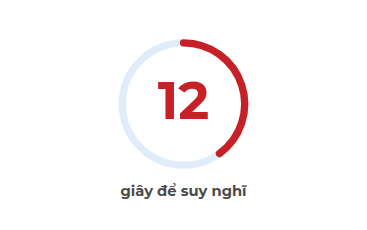
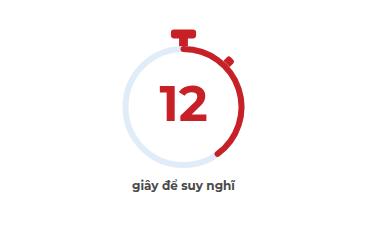
feat(ds): Countdown mang dáng đồng hồ bấm giờ
Vành đếm ngược có núm và nút bấm (`clock`, mặc định bật) để người xem nhận ra ngay là đồng hồ;
`clock={false}` giữ vòng tròn trơn. Cập nhật ảnh preview và đưa Countdown vào design-sync.

Claude-Session: https://claude.ai/code/session_01W64zKN5Rxj29Fh9wx6tiTt

diff --git a/vinuni-lesson-video-ds/components/figures/Countdown.jsx b/vinuni-lesson-video-ds/components/figures/Countdown.jsx
@@ -10,6 +10,9 @@ import { SvgText } from '../text/Text.jsx';
  * answers it exactly; Stopwatch (Figures.jsx) sweeps a hand but never says how long is left, which is the
  * only thing being asked here.
  *
+ * With `clock` (default) the ring wears a stopwatch's crown and side button, so it reads as a timer
+ * before the number is even read — the same object as Stopwatch, but one that says how long is left.
+ *
  * It is driven by the scene frame, not by wall-clock time — the render paints frames out of order and far
  * slower than real time, so anything reading a clock would come out wrong.
  */
@@ -23,6 +26,7 @@ export function Countdown({
   color = C.red,
   track = C.dotInactive,
   label,
+  clock = true,
   opacity = 1,
 }) {
   if (opacity <= 0.001) return null;
@@ -48,8 +52,32 @@ export function Countdown({
       />
     );
 
+  // Stopwatch hardware, sized from r: a stem and crown at twelve, a push button at half past one. Both sit
+  // just outside the ring's outer edge (ring + half the stroke).
+  const edge = ring + 6;
+  const stemW = r * 0.14;
+  const capW = r * 0.4;
+  const capH = r * 0.14;
+  const stemH = r * 0.12;
+  const hardware = clock ? (
+    <>
+      <rect x={x - stemW / 2} y={y - edge - stemH - 2} width={stemW} height={stemH + 4} fill={color} />
+      <rect x={x - capW / 2} y={y - edge - stemH - capH} width={capW} height={capH} rx={capH * 0.35} fill={color} />
+      <rect
+        x={x - stemW / 2}
+        y={y - edge - stemH}
+        width={stemW}
+        height={stemH + 4}
+        rx={stemW * 0.3}
+        fill={color}
+        transform={`rotate(45 ${x} ${y})`}
+      />
+    </>
+  ) : null;
+
   return (
     <g opacity={opacity < 1 ? opacity : undefined}>
+      {hardware}
       <circle cx={x} cy={y} r={ring} fill={C.bg} stroke={track} strokeWidth={12} />
       {arc}
       {/* Ceil, so the number only reaches zero when the pause is actually over. */}

diff --git a/.design-sync/previews/Countdown.tsx b/.design-sync/previews/Countdown.tsx
@@ -1,0 +1,26 @@
+import React from 'react';
+import { Countdown, C } from 'vinuni-lesson-video-ds';
+
+const Stage = ({ w, h, children }: { w: number; h: number; children: React.ReactNode }) => (
+  <svg viewBox={`0 0 ${w} ${h}`} width="100%" style={{ display: 'block', background: C.bg, fontFamily: 'var(--font-sans)' }}>{children}</svg>
+);
+
+export const QuizPause = () => (
+  <Stage w={360} h={300}>
+    <Countdown x={180} y={130} r={86} seconds={30} frame={540} label="giây để suy nghĩ" />
+  </Stage>
+);
+
+export const Running = () => (
+  <Stage w={600} h={260}>
+    <Countdown x={100} y={120} r={64} seconds={30} frame={0} label="Bắt đầu" />
+    <Countdown x={300} y={120} r={64} seconds={30} frame={450} label="Còn một nửa" />
+    <Countdown x={500} y={120} r={64} seconds={30} frame={900} label="Hết giờ" />
+  </Stage>
+);
+
+export const PlainRing = () => (
+  <Stage w={360} h={300}>
+    <Countdown x={180} y={130} r={86} seconds={20} frame={150} clock={false} color={C.accent} label="không có núm" />
+  </Stage>
+);

diff --git a/vinuni-lesson-video-ds/components/figures/Countdown.d.ts b/vinuni-lesson-video-ds/components/figures/Countdown.d.ts
@@ -19,6 +19,8 @@ export interface CountdownProps {
   track?: string;
   /** Caption under the ring, e.g. "giây để suy nghĩ". */
   label?: string;
+  /** Draw a stopwatch crown and side button on the ring. Default true. */
+  clock?: boolean;
   opacity?: number;
 }
 

diff --git a/vinuni-lesson-video-ds/components/figures/Countdown.prompt.md b/vinuni-lesson-video-ds/components/figures/Countdown.prompt.md
@@ -1,6 +1,8 @@
 # Countdown
 
 Vòng đếm ngược cho **khoảng dừng** trong video có quiz: vành tròn vơi dần, số giây còn lại nằm giữa.
+Vành mang núm và nút bấm của đồng hồ bấm giờ (`clock`, mặc định bật) để người xem nhận ra ngay đó là
+đồng hồ; `clock={false}` cho vòng tròn trơn.
 
 ```jsx
 <Countdown x={960} y={560} seconds={30} frame={T} label="giây để suy nghĩ" />
@@ -16,8 +18,9 @@ người xem đang cần đọc.
 
 ## Khác `Stopwatch` chỗ nào
 
-`Stopwatch` quay một cây kim, hợp cho ý "thời gian đang trôi" trong cảnh minh hoạ. `Countdown` trả lời
-**còn bao lâu nữa** — đó mới là câu hỏi duy nhất người xem có trong một khoảng dừng. Đừng thay thế nhau.
+`Stopwatch` quay một cây kim, hợp cho ý "thời gian đang trôi" trong cảnh minh hoạ. `Countdown` cùng
+dáng đồng hồ bấm giờ nhưng trả lời **còn bao lâu nữa** — đó mới là câu hỏi duy nhất người xem có trong
+một khoảng dừng. Đừng thay thế nhau.
 
 ## Ràng buộc
 
